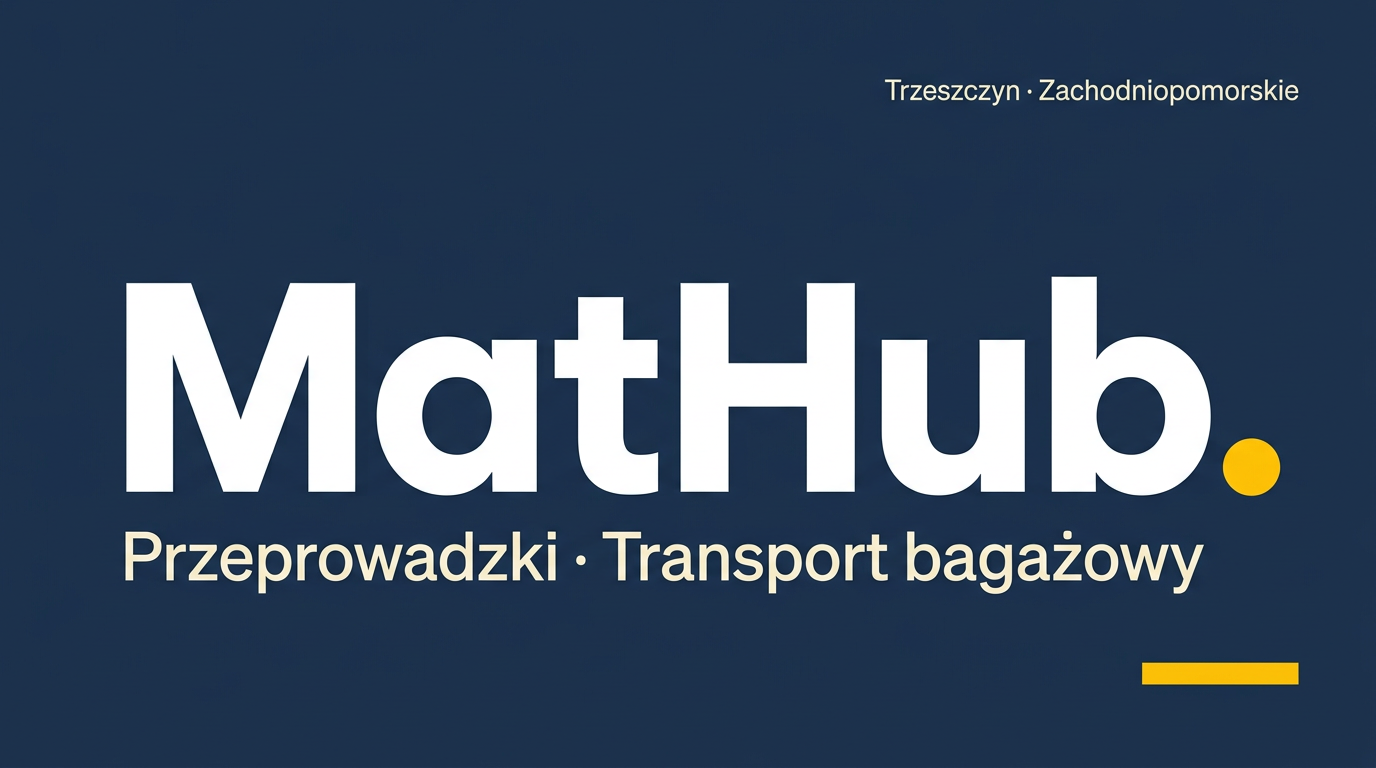
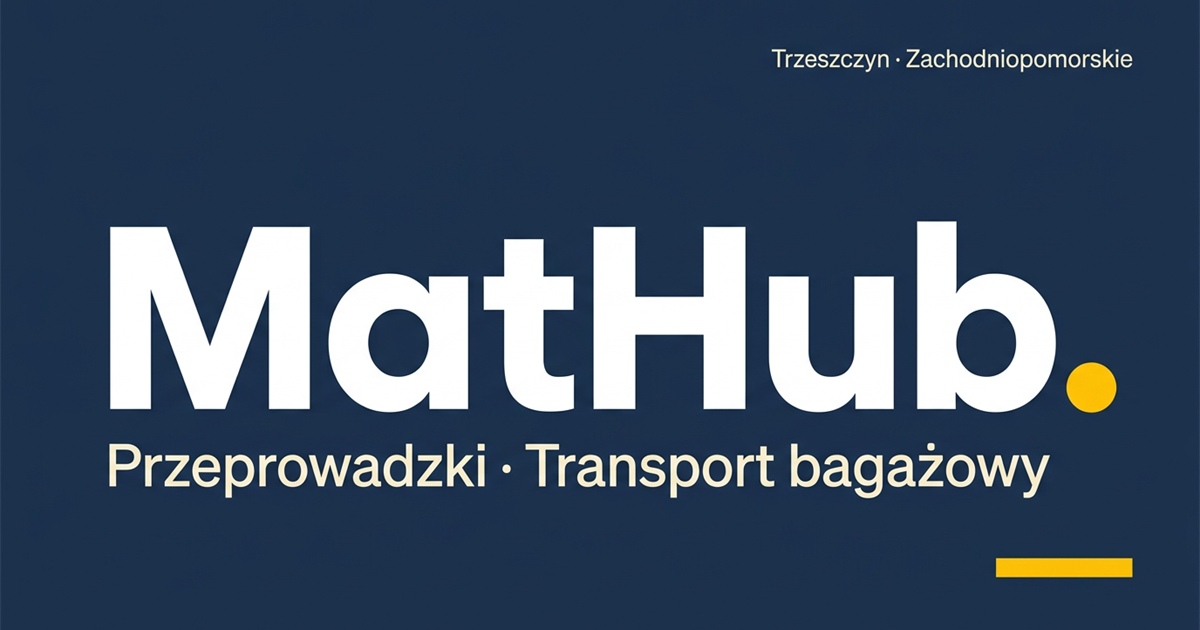
Dopracuj responsywność i metadane strony

diff --git a/src/pages/NotFound.tsx b/src/pages/NotFound.tsx
@@ -1,23 +1,39 @@
-import { useLocation } from "react-router-dom";
-import { useEffect } from "react";
+import { Link } from "react-router-dom";
+import { ArrowRight, Truck } from "lucide-react";
 
 const NotFound = () => {
-  const location = useLocation();
-
-  useEffect(() => {
-    console.error("404 Error: User attempted to access non-existent route:", location.pathname);
-  }, [location.pathname]);
-
   return (
-    <div className="flex min-h-screen items-center justify-center bg-muted">
-      <div className="text-center">
-        <h1 className="mb-4 text-4xl font-bold">404</h1>
-        <p className="mb-4 text-xl text-muted-foreground">Oops! Page not found</p>
-        <a href="/" className="text-primary underline hover:text-primary/90">
-          Return to Home
-        </a>
+    <main className="min-h-screen bg-paper text-ink flex items-center justify-center px-6 py-16">
+      <div className="max-w-md text-center">
+        <div className="mx-auto mb-8 inline-flex items-center gap-2.5">
+          <span
+            className="inline-flex h-9 w-9 items-center justify-center rounded-sm bg-yellow"
+            aria-hidden="true"
+          >
+            <Truck className="h-5 w-5 text-navy" strokeWidth={2.25} />
+          </span>
+          <span
+            className="text-[24px] font-semibold text-ink"
+            style={{ letterSpacing: "-0.01em" }}
+          >
+            MatHub
+          </span>
+        </div>
+        <div className="kicker text-yellow-ink">404</div>
+        <h1 className="h2 mt-3 text-ink">Nie znaleźliśmy tej strony.</h1>
+        <p className="mt-4 text-[15px] leading-relaxed text-ink/65">
+          Link mógł się zmienić albo strona została przeniesiona. Wróć na stronę
+          główną i sprawdź aktualne informacje o przeprowadzkach.
+        </p>
+        <Link
+          to="/"
+          className="mt-8 inline-flex items-center justify-center gap-2 rounded-sm bg-yellow px-5 h-12 text-[15px] font-semibold text-navy transition-mh hover:bg-[hsl(45_100%_56%)] shadow-sm"
+        >
+          Wróć do strony głównej
+          <ArrowRight className="h-4 w-4" aria-hidden="true" />
+        </Link>
       </div>
-    </div>
+    </main>
   );
 };
 

diff --git a/src/components/site/Header.tsx b/src/components/site/Header.tsx
@@ -102,31 +102,34 @@ const Header = () => {
 
       {/* Mobile panel */}
       <div
-        className={`md:hidden absolute top-full left-0 w-full bg-paper shadow-lg transition-all duration-300 origin-top overflow-hidden ${
-          open ? "scale-y-100 opacity-100 border-t border-line" : "scale-y-0 opacity-0 h-0"
+        aria-hidden={!open}
+        className={`md:hidden absolute top-full left-0 w-full bg-paper/95 backdrop-blur-md shadow-[0_24px_64px_hsl(222_33%_9%/0.14)] transition-[max-height,opacity,transform] duration-300 ease-out overflow-hidden overscroll-contain ${
+          open
+            ? "max-h-[calc(100dvh-80px)] opacity-100 translate-y-0 border-t border-line"
+            : "max-h-0 opacity-0 -translate-y-2 pointer-events-none border-t border-transparent"
         }`}
       >
-        <div className="container-mh py-6 flex flex-col gap-1">
-          {NAV.map((item) => (
-            <a
-              key={item.href}
-              href={item.href}
-              onClick={() => setOpen(false)}
-              className="group flex items-center justify-between rounded-sm px-4 py-3.5 text-[15px] font-medium text-ink transition-colors hover:bg-line/30"
-            >
-              {item.label}
-            </a>
-          ))}
-          <div className="mt-4 px-4 pb-2">
-            <a
-              href={PHONE_HREF}
-              onClick={() => setOpen(false)}
-              className="flex w-full items-center justify-center gap-2 rounded-sm bg-yellow h-12 text-[15px] font-semibold text-navy transition-colors hover:bg-[hsl(45_100%_56%)]"
-            >
-              <Phone className="h-4 w-4" aria-hidden="true" />
-              Zadzwoń {PHONE_DISPLAY}
-            </a>
+        <div className="container-mh max-h-[calc(100dvh-80px)] py-2 pb-[calc(0.5rem+env(safe-area-inset-bottom))] flex flex-col">
+          <div className="min-h-0 overflow-y-auto rounded-md border border-line bg-paper divide-y divide-line">
+            {NAV.map((item) => (
+              <a
+                key={item.href}
+                href={item.href}
+                onClick={() => setOpen(false)}
+                className="group flex items-center justify-between px-4 py-2.5 text-[15px] font-medium text-ink transition-colors hover:bg-cream/70"
+              >
+                {item.label}
+              </a>
+            ))}
           </div>
+          <a
+            href={PHONE_HREF}
+            onClick={() => setOpen(false)}
+            className="mt-2 flex w-full items-center justify-center gap-2 rounded-md bg-yellow h-10 text-[15px] font-semibold text-navy shadow-sm transition-colors hover:bg-[hsl(45_100%_56%)]"
+          >
+            <Phone className="h-4 w-4" aria-hidden="true" />
+            Zadzwoń {PHONE_DISPLAY}
+          </a>
         </div>
       </div>
     </header>

diff --git a/index.html b/index.html
@@ -4,6 +4,7 @@
     <meta charset="UTF-8" />
     <meta name="viewport" content="width=device-width, initial-scale=1.0" />
     <meta name="theme-color" content="#1a2f4f" />
+    <link rel="icon" href="/favicon.ico" />
 
     <title>MatHub — przeprowadzki i transport bagażowy · Trzeszczyn, Zachodniopomorskie</title>
     <meta
@@ -24,7 +25,7 @@
       property="og:description"
       content="Wózek samozaładowczy 500 kg — bez rampy, bez windy hydraulicznej. Mieszkania, domy, biura. Zachodniopomorskie i cała Polska."
     />
-    <meta property="og:image" content="/og.png" />
+    <meta property="og:image" content="https://mathub.pl/og.png" />
     <meta property="og:image:width" content="1200" />
     <meta property="og:image:height" content="630" />
 
@@ -34,7 +35,7 @@
       name="twitter:description"
       content="Wózek samozaładowczy 500 kg. Bez rampy, bez windy. Trzeszczyn / Zachodniopomorskie / cała Polska."
     />
-    <meta name="twitter:image" content="/og.png" />
+    <meta name="twitter:image" content="https://mathub.pl/og.png" />
 
     <link rel="preconnect" href="https://fonts.googleapis.com" />
     <link rel="preconnect" href="https://fonts.gstatic.com" crossorigin />
@@ -46,8 +47,7 @@
         "name": "MatHub",
         "description": "Przeprowadzki mieszkań, domów, biur i transport ponadgabarytowy. Wózek samozaładowczy o udźwigu 500 kg.",
         "url": "https://mathub.pl/",
-        "telephone": "[phone redacted]",
-        "email": "[email redacted]",
+        "telephone": "[phone redacted]",
         "image": "https://mathub.pl/og.png",
         "priceRange": "$$",
         "address": {
@@ -71,7 +71,7 @@
           {
             "@type": "OpeningHoursSpecification",
             "dayOfWeek": ["Monday","Tuesday","Wednesday","Thursday","Friday","Saturday"],
-            "opens": "07:00",
+            "opens": "08:00",
             "closes": "20:00"
           }
         ]

diff --git a/src/components/site/UspCart.tsx b/src/components/site/UspCart.tsx
@@ -77,16 +77,16 @@ const UspCart = () => {
             </ul>
           </div>
 
-          <div className="grid grid-cols-2 lg:grid-cols-1 gap-px bg-line-dark rounded-md overflow-hidden">
+          <div className="grid grid-cols-1 sm:grid-cols-2 lg:grid-cols-1 gap-px bg-line-dark rounded-md overflow-hidden">
             {SPECS.map((s) => (
               <div
                 key={s.label}
                 className={`bg-navy p-6 md:p-7 ${
-                  s.span ? "col-span-2 lg:col-span-1" : ""
+                  s.span ? "sm:col-span-2 lg:col-span-1" : ""
                 }`}
               >
-                <div className="flex items-baseline gap-1.5">
-                  <span className="text-yellow text-[40px] md:text-[48px] font-semibold leading-none tracking-tight">
+                <div className="flex items-baseline gap-2">
+                  <span className="whitespace-nowrap text-yellow text-[clamp(2.35rem,11vw,3rem)] md:text-[48px] font-semibold leading-none tracking-tight">
                     {s.value}
                   </span>
                   {s.unit && (

diff --git a/src/index.css b/src/index.css
@@ -16,7 +16,7 @@
     --navy: 217 50% 21%;          /* #1a2f4f */
     --navy-deep: 215 53% 12%;     /* #0E1B2E */
     --yellow: 45 100% 51%;        /* #FFC107 */
-    --yellow-ink: 41 80% 38%;     /* #B8860B */
+    --yellow-ink: 41 80% 31%;
     --yellow-accent: 39 76% 45%;  /* #C8941A — hero accent */
 
     /* shadcn token aliases mapped to brand */
@@ -108,7 +108,7 @@
   }
 
   .h2 {
-    font-size: clamp(1.75rem, 3.5vw, 2.5rem);
+    font-size: clamp(1.625rem, 3.5vw, 2.5rem);
     font-weight: 600;
     letter-spacing: -0.02em;
     line-height: 1.1;

diff --git a/src/components/site/Coverage.tsx b/src/components/site/Coverage.tsx
@@ -52,13 +52,12 @@ const Coverage = () => {
           </div>
 
           <div className="relative rounded-3xl overflow-hidden border border-line bg-white shadow-lg group">
-            <div className="absolute inset-0 grayscale-[40%] opacity-90 group-hover:grayscale-0 group-hover:opacity-100 transition-all duration-700 ease-in-out z-10 pointer-events-none"></div>
             <iframe
               title="Mapa: Trzeszczyn, 72-004 Police"
               src="https://www.google.com/maps?q=53.55,14.52&z=11&output=embed"
               loading="lazy"
               referrerPolicy="no-referrer-when-downgrade"
-              className="w-full h-[400px] md:h-[480px] border-0 relative z-0"
+              className="w-full h-[400px] md:h-[480px] border-0 grayscale-[15%] saturate-[0.9] contrast-[1.02] transition-all duration-700 ease-in-out group-hover:grayscale-0 group-hover:saturate-100"
             />
           </div>
         </div>

diff --git a/src/components/site/Hero.tsx b/src/components/site/Hero.tsx
@@ -36,7 +36,7 @@ const Hero = () => {
             <h1
               className="display mt-6 text-ink"
               style={{
-                fontSize: "clamp(2.5rem, 6.5vw, 4.75rem)",
+                fontSize: "clamp(2.35rem, 6.5vw, 4.75rem)",
                 maxWidth: "16ch",
               }}
             >
@@ -96,7 +96,6 @@ const Hero = () => {
                 width={1080}
                 height={1920}
                 className="w-full h-[420px] sm:h-[520px] lg:h-[600px] object-cover"
-                fetchPriority="high"
               />
             </div>
           </div>

diff --git a/vite.config.ts b/vite.config.ts
@@ -5,7 +5,7 @@ import { componentTagger } from "lovable-tagger";
 
 // https://vitejs.dev/config/
 export default defineConfig(({ mode }) => ({
-  base: "/mathub-polish-marketing/",
+  base: "/",
   server: {
     host: "::",
     port: 8080,